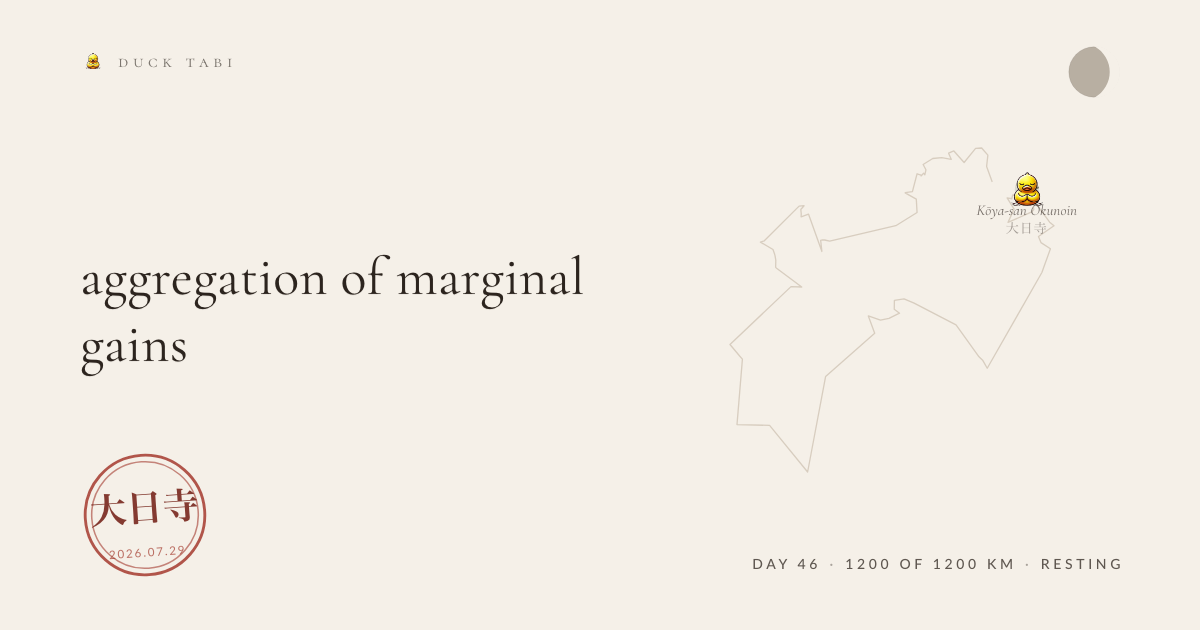
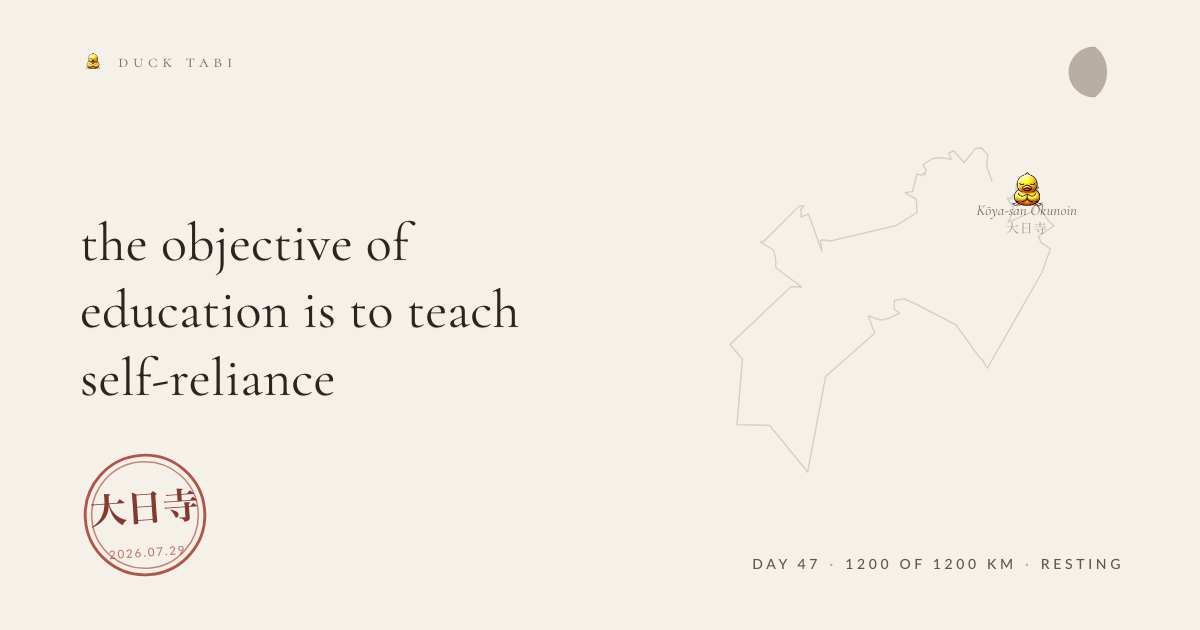
the duck walks

Changed region(s): [[0.0617, 0.3619, 0.4933, 0.6333]]

diff --git a/entries/2026-09-14-meditation.md b/entries/2026-09-14-meditation.md
@@ -1,0 +1,14 @@
+---
+date: '2026-09-14'
+route: shikoku-88
+stage: 4
+stageName: Kōya-san Okunoin
+coords: [135.589, 34.2167]
+kind: meditation
+glyph: 〰
+weather: overcast, 20°C
+kmFromStart: 9
+heardId: 02b77c6c
+---
+
+the objective of education is to teach self-reliance
